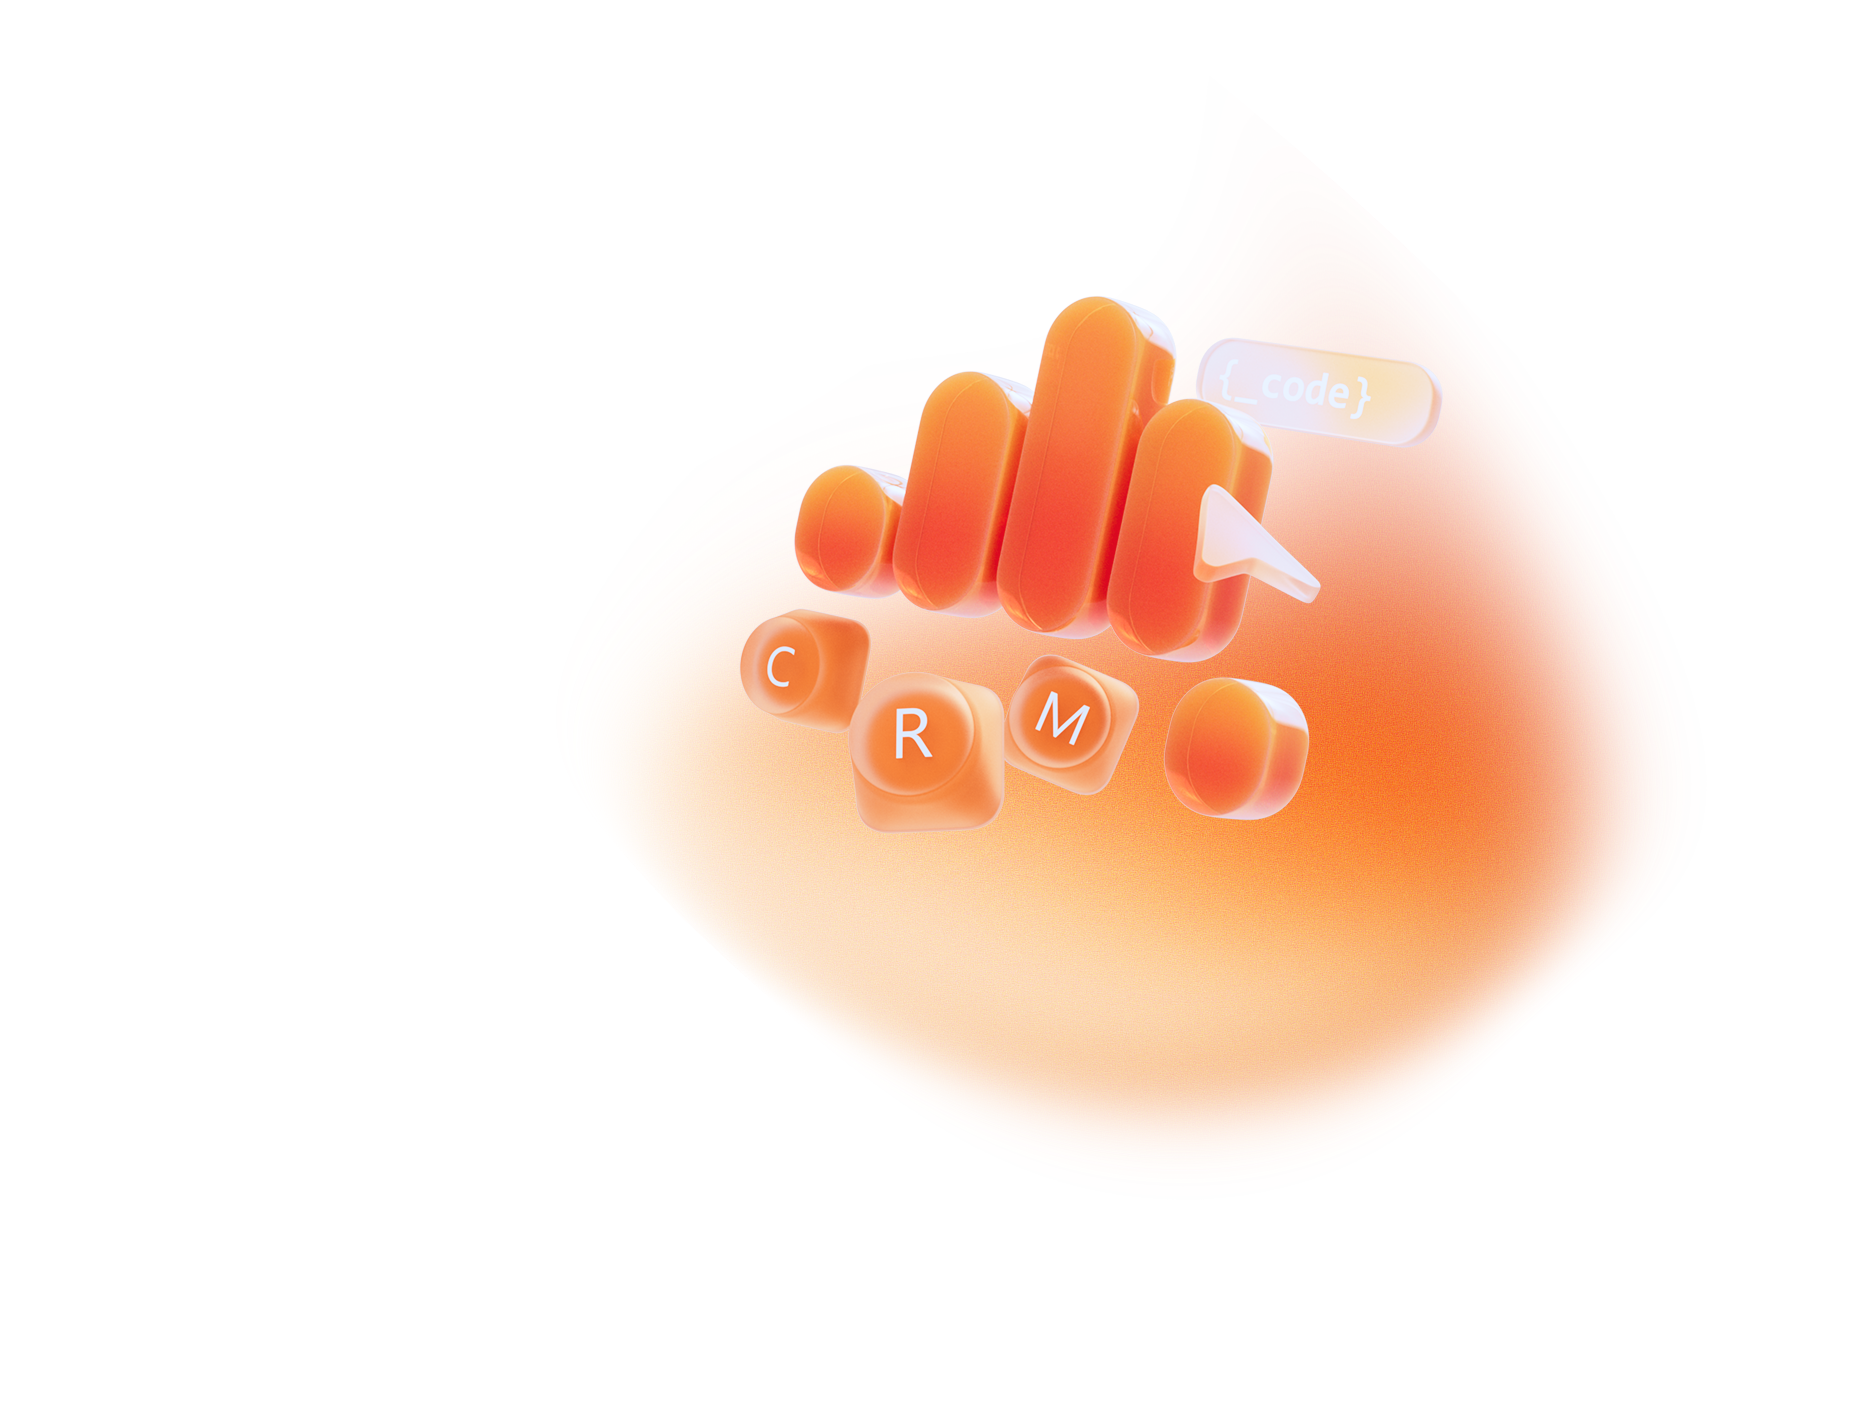
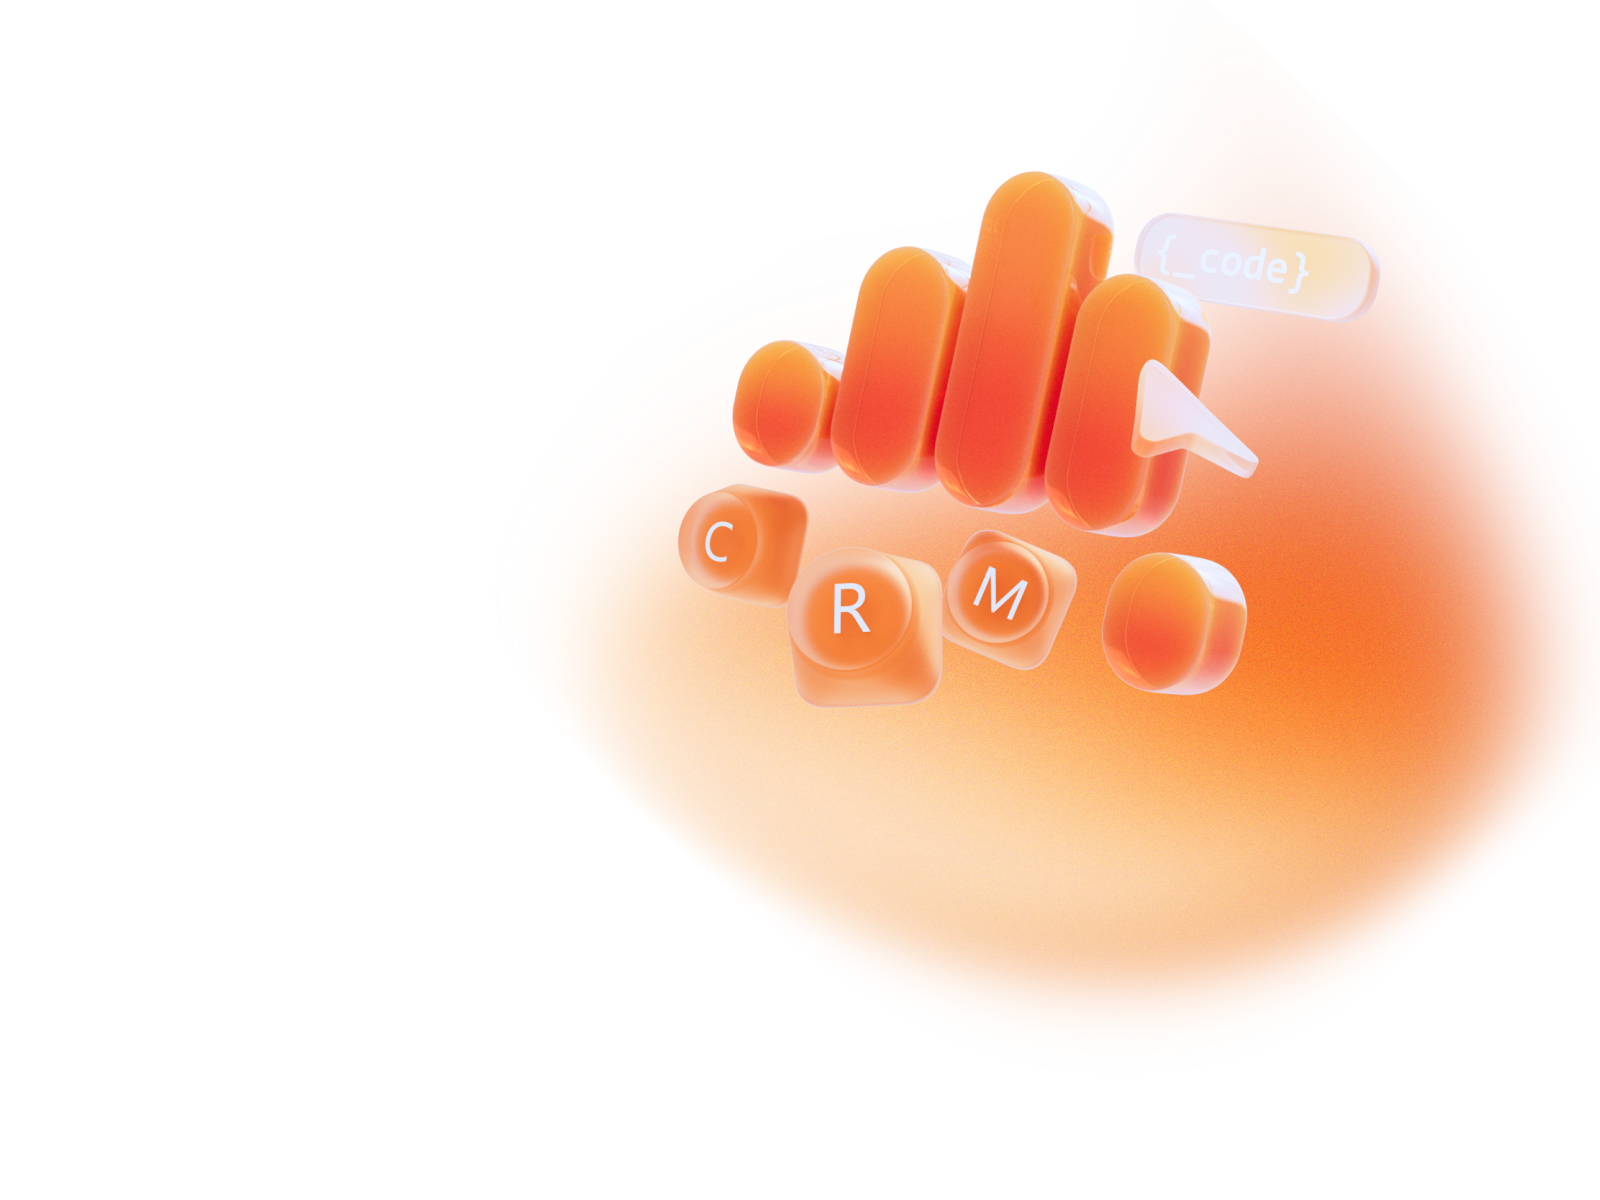
fix

Changed region(s): [[0.375, 0.1233, 1.0, 0.8633]]

diff --git a/assets/css/style.css b/assets/css/style.css
@@ -76,7 +76,7 @@
     linear-gradient(93.77deg, #ff4207 4.43%, #ffb38d 98.86%);
   --border-gradient: linear-gradient(90deg, #ff4207 4.43%, #ffb38d 98.86%);
   --fs-1: 4.6rem;
-  --fs-2: 3.2rem;
+  --fs-2: 3.1rem;
   --fs-3: 2.5rem;
   --fs-4: 1.6rem;
   --fs-5: 1.6rem;
@@ -88,7 +88,7 @@
 @media (min-width: 767px) {
   :root {
     --fs-1: 9.6rem;
-    --fs-2: 6.4rem;
+    --fs-2: 6.2rem;
     --fs-3: 4rem;
     --fs-4: 3.2rem;
     --fs-5: 1.8rem;
@@ -104,10 +104,7 @@
 }
 html {
   font-size: 62.5%;
-}
-html,
-body {
-  /* height: 100%; */
+  height: 100%;
 }
 body {
   font-family: var(--ff-primary);
@@ -116,45 +113,114 @@ body {
   line-height: 1.2;
   color: var(--black);
   background: var(--light);
-  display: flex;
-  flex-direction: column;
+  min-height: 100%;
+  display: grid;
+  grid-template-rows: auto 1fr auto;
 }
 img {
   max-width: 100%;
   height: auto;
   display: block;
 }
-header {
-  background: var(--gray);
-}
 main {
-  flex: 1;
+  overflow: hidden;
 }
 footer {
   background: var(--gray);
 }
+.header {
+  max-width: 1280px;
+  margin: 0 auto;
+  position: absolute;
+  left: 0;
+  right: 0;
+  top: 30px;
+  display: flex;
+  justify-content: space-between;
+  align-items: center;
+  border-radius: 50px;
+  background: var(--white);
+  z-index: 10000;
+  width: 100%;
+  padding: 8px 40px;
+}
+.menu {
+  display: flex;
+  justify-content: space-evenly;
+  justify-content: center;
+  width: 100%;
+  gap: 20px;
+}
+.menu a {
+  text-decoration: none;
+  padding: 10px 20px;
+  color: var(--gray);
+  position: relative;
+  border-radius: 50px;
+  background: transparent;
+}
+.menu a:hover {
+  color: var(--white);
+  background: var(--color-gradient);
+}
+.menu a.active {
+  color: var(--white);
+  background: var(--color-gradient);
+  transition: var(--transition);
+  background-size: 100%;
+  background-position: 0 0;
+}
+.menu a::before,
+.menu a:after {
+  content: none;
+}
+.menu a.active:hover {
+  background-size: 400%;
+}
+.container {
+  max-width: 1240px;
+  margin: 0 auto;
+  padding: 0 20px;
+}
+
+@media (min-width: 1200px) {
+  .container {
+    padding: 0;
+    border: 1px solid red;
+  }
+}
 /* START HERO */
 .hero {
+  height: 100vh;
   position: relative;
-  padding: 100px 0;
+  background: #ccc;
+}
+.hero .container {
+  height: 100%;
 }
 .hero .row {
   display: flex;
   flex-direction: column;
-  justify-content: center;
   align-items: flex-start;
+  height: 100%;
+  padding: 100px 0;
+}
+.hero h1 {
+  display: flex;
+  flex-direction: column;
+}
+.hero h1 span:last-child {
+  font-size: 2.4rem;
+  margin-top: -10px;
 }
 .hero img {
   position: absolute;
-  left: 0;
-  right: 0;
   z-index: -100;
-  bottom: -100%;
-  /* bottom: -50%;
-  width: 300%;
-  max-width: none;
+  max-width: 100%;
   left: 50%;
-  transform: translate(-50%); */
+  transform: translateX(-50%);
+  bottom: -300px;
+  min-width: 1000px;
 }
 .hero .subtitle {
   color: var(--black);
@@ -168,6 +234,31 @@ footer {
 .hero .text {
   color: var(--gray);
   margin-bottom: 20px;
+  max-width: 460px;
+}
+@media (min-width: 767px) {
+}
+@media (min-width: 1200px) {
+  .hero h1 span:last-child {
+    font-size: 4.8rem;
+  }
+  .hero img {
+    position: absolute;
+    z-index: -100;
+    max-width: 100%;
+    right: -160px;
+    bottom: -300px;
+    min-width: 1600px;
+    transform: none;
+    left: auto;
+  }
+  .hero .row {
+    display: flex;
+    flex-direction: column;
+    justify-content: center;
+    align-items: flex-start;
+    height: 100%;
+  }
 }
 /* END HERO */
 
@@ -442,17 +533,6 @@ h6 {
 
 .link-button:hover::after {
   opacity: 1;
-}
-
-.container {
-  max-width: 1240px;
-  margin: 0 auto;
-  padding: 0 20px;
-}
-
-.row {
-  display: flex;
-  flex-wrap: wrap;
 }
 
 .steps {
@@ -736,11 +816,11 @@ form input:focus {
   color: var(--gray);
 }
 
-.default-tabs [data-hf-tabs-button="active"] {
+.default-tabs [data-hf-tabs-button='active'] {
   color: var(--orange);
 }
 
-.default-tabs [data-hf-tabs-button="active"]:before {
+.default-tabs [data-hf-tabs-button='active']:before {
   content: '';
   position: absolute;
   width: 100%;
@@ -764,7 +844,7 @@ form input:focus {
 }
 
 /* .default-accordion */
-.default-accordion .accordion-item{
+.default-accordion .accordion-item {
   margin-bottom: 10px;
 }
 
@@ -777,7 +857,7 @@ form input:focus {
   background-color: var(--light-gray);
   border-radius: 22px;
   padding: 20px 30px;
-  transition: .3s all ease;
+  transition: 0.3s all ease;
 }
 
 .default-accordion .accordion-item-header::after {
@@ -794,7 +874,7 @@ form input:focus {
   justify-content: center;
   align-items: center;
   font-size: var(--button-font-size);
-    transition: .3s all ease;
+  transition: 0.3s all ease;
 }
 
 .default-accordion .accordion-item-header::before {
@@ -811,10 +891,12 @@ form input:focus {
   align-items: center;
   font-size: var(--button-font-size);
   z-index: 1;
-    transition: .3s all ease;
+  transition: 0.3s all ease;
 }
 
-.default-accordion .accordion-item[data-hf-accordion-item="active"] .accordion-item-header::before {
+.default-accordion
+  .accordion-item[data-hf-accordion-item='active']
+  .accordion-item-header::before {
   transform: translateY(-50%) rotate(270deg);
   right: 27px;
   top: 50%;
@@ -831,7 +913,7 @@ form input:focus {
   background-color: var(--white);
   border-radius: 22px;
   padding: 20px 30px;
-  transition: .3s all ease;
+  transition: 0.3s all ease;
   margin-bottom: 10px;
   line-height: 1;
   overflow: hidden;
@@ -849,10 +931,13 @@ form input:focus {
   font-weight: 300;
   visibility: hidden;
   opacity: 0;
-  transition: .3s all ease;
+  transition: 0.3s all ease;
 }
 
-.scale-accordion .accordion-item[data-hf-accordion-item="active"] .accordion-item-header .accordion-item-text {
+.scale-accordion
+  .accordion-item[data-hf-accordion-item='active']
+  .accordion-item-header
+  .accordion-item-text {
   font-size: var(--text-fs);
   font-weight: 300;
   visibility: visible;
@@ -862,15 +947,18 @@ form input:focus {
 .scale-accordion .accordion-item-header .accordion-item-count {
   font-weight: 300;
   transform: translateY(-200%) scale(13);
-  opacity: .3;
+  opacity: 0.3;
   color: var(--black);
   /* transform-origin: top left; */
-  transition: .3s all ease;
+  transition: 0.3s all ease;
   text-align: center;
   transform-origin: top center;
 }
 
-.scale-accordion .accordion-item[data-hf-accordion-item="active"]  .accordion-item-header .accordion-item-count {
+.scale-accordion
+  .accordion-item[data-hf-accordion-item='active']
+  .accordion-item-header
+  .accordion-item-count {
   font-weight: 600;
   transform: translateY(0%) scale(4);
   opacity: 1;

diff --git a/index.html b/index.html
@@ -14,8 +14,38 @@
   </head>
 
   <body>
-    <header>HEADER</header>
-    <main>MAIN</main>
+    <header class="header">
+      <img src="./assets/images/logo.svg" alt="HIGH FIVE" />
+      <div class="menu">
+        <a class="active" href="">Услуги</a>
+        <a href="">Кейсы</a>
+        <a href="">Отзывы</a>
+        <a href="">Мероприятия</a>
+        <a href="">Блог</a>
+        <a href="">Контакты</a>
+      </div>
+    </header>
+
+    <main class="main">
+      <section class="hero">
+        <div class="container">
+          <div class="row">
+            <h1 class="gradient-text">
+              <span>HighFive</span>
+              <span>Digital-агентство</span>
+            </h1>
+
+            <p class="subtitle">Помогаем бизнесу расти</p>
+            <p class="text">
+              Автоматизируем отделы продаж и HR, оцифровываем клиентский сервис.
+              Создаем цифровые продукты: B2B-порталы, кабинеты, сайты.
+            </p>
+            <button class="button gradient-button">Узнать больше</button>
+            <img src="./assets/images/hero.png" alt="CRM" />
+          </div>
+        </div>
+      </section>
+    </main>
     <footer>FOOTER</footer>
     <a href="ui.html" class="ui">UI</a>
     <script src="https://cdn.jsdelivr.net/npm/swiper@11/swiper-bundle.min.js"></script>

diff --git a/ui.html b/ui.html
@@ -32,25 +32,6 @@
     <button class="button transparent-button">Button transparent</button>
 
     <hr />
-
-    <h3 style="text-align: center">Hero</h3>
-    <hr />
-    <section class="hero">
-      <div class="container">
-        <div class="row">
-          <h1 class="gradient-text">HighFive</h1>
-          <h2 class="gradient-text">Digital-агентство</h2>
-          <p class="subtitle">Помогаем бизнесу расти</p>
-          <p class="text">
-            Автоматизируем отделы продаж и HR, оцифровываем клиентский сервис.
-            Создаем цифровые продукты: B2B-порталы, кабинеты, сайты.
-          </p>
-          <button class="button gradient-button">Узнать больше</button>
-          <img src="./assets/images/hero.png" alt="CRM" />
-        </div>
-      </div>
-    </section>
-    <hr />
     <h3 style="text-align: center">Buttons</h3>
     <h3 style="text-align: center">Buttons</h3>
     <h3 style="text-align: center">Buttons</h3>
